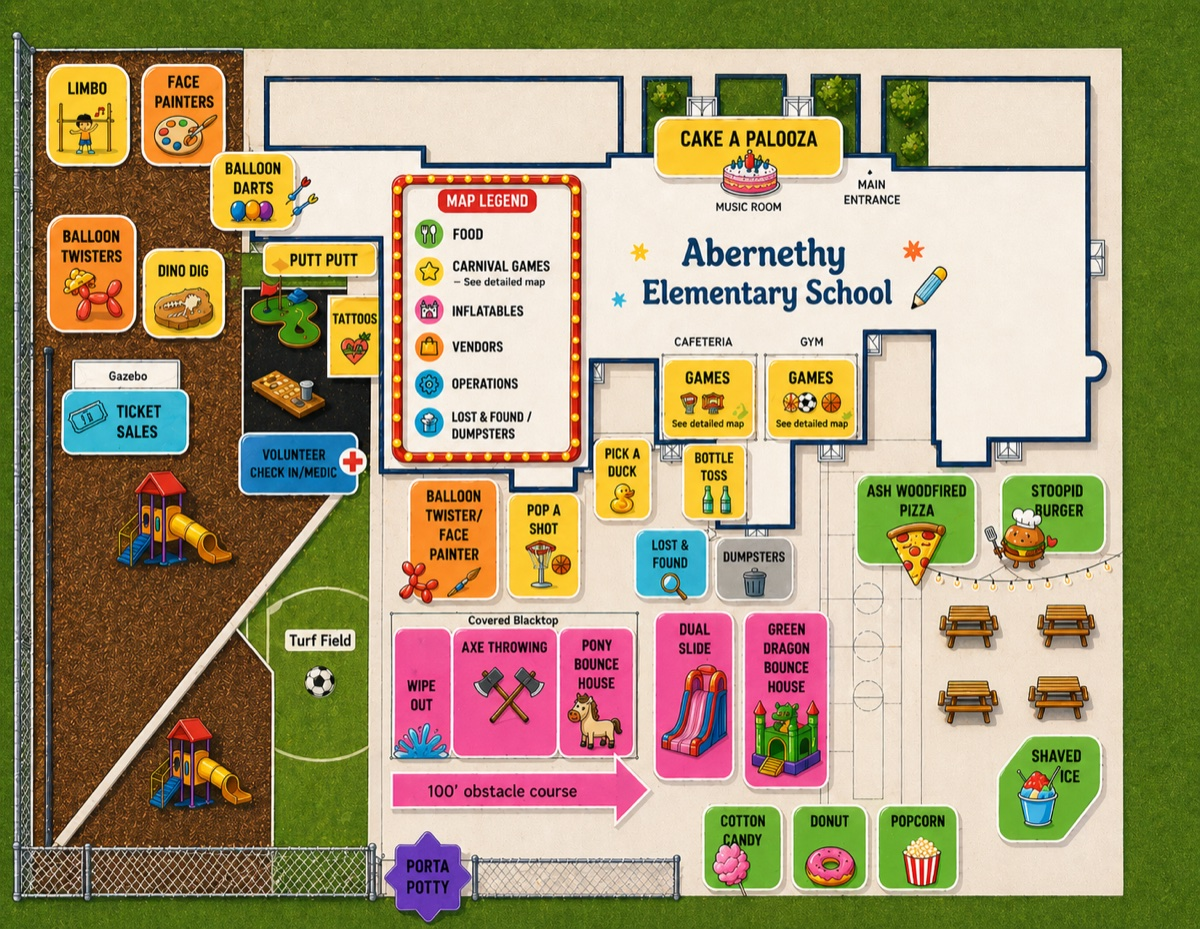
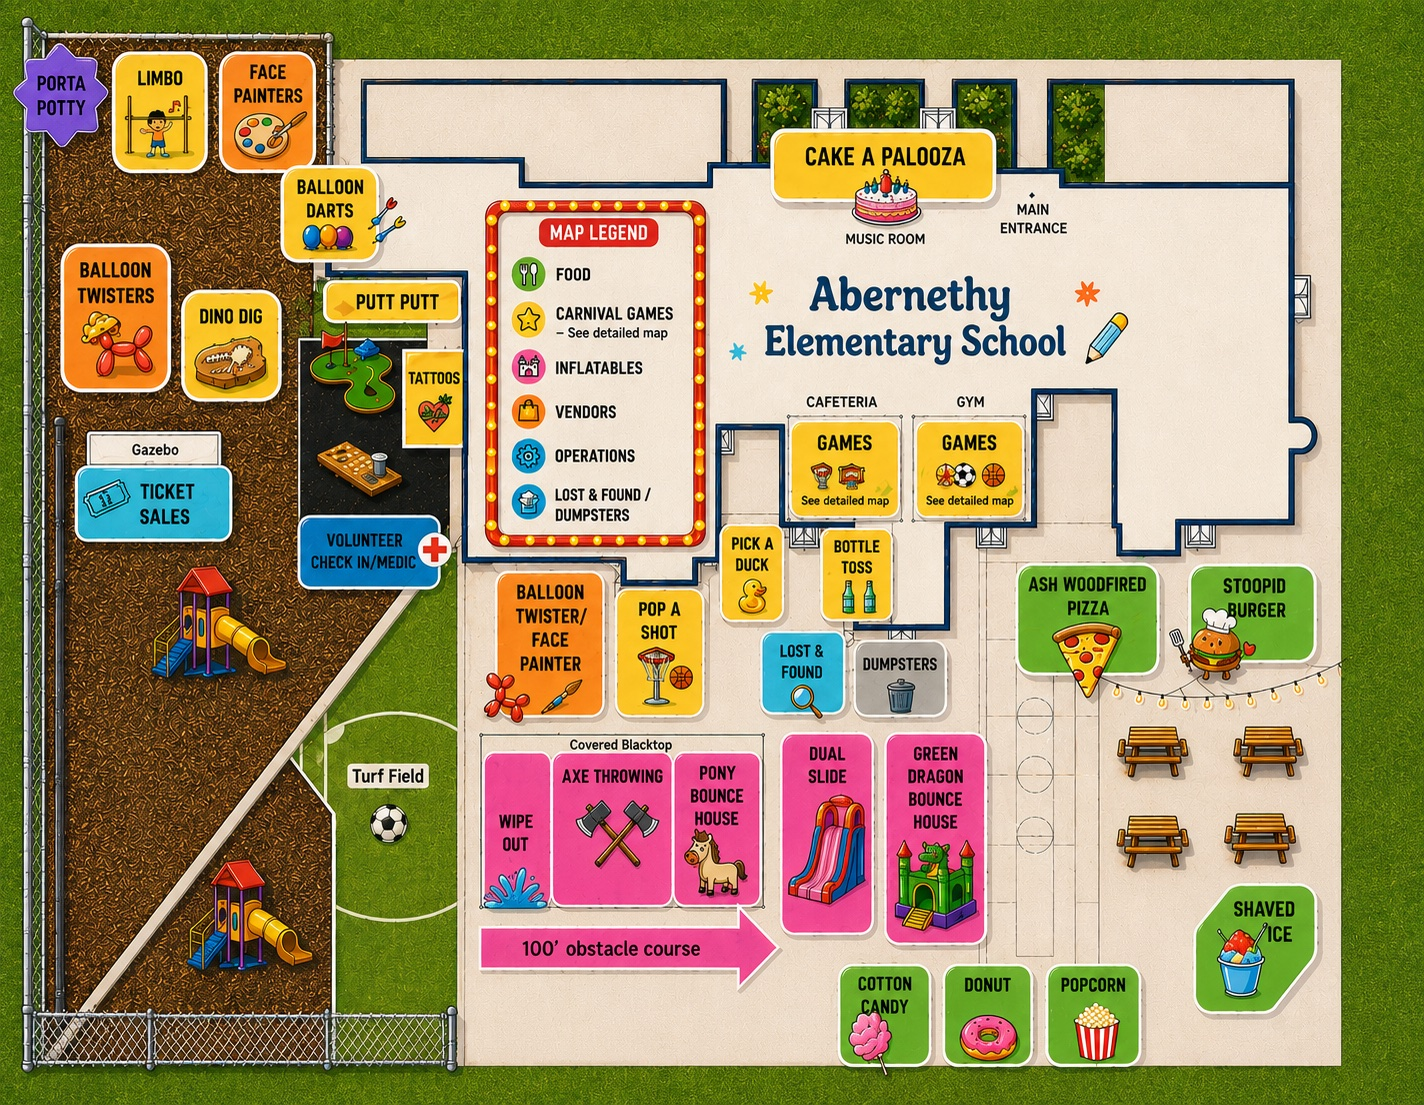
Add t-shirt sales section, swap in updated map (porta potty moved)
- Map: porta potty pin now at upper-left (matches the new on-site layout)
- New T-Shirts chapter linking to https://bashors.chipply.com/abernethycarnival/
- Add tshirt.jpg, inflatables-source/ backup folder, CLAUDE.md notes

diff --git a/index.html b/index.html
@@ -660,6 +660,35 @@
     .volunteer-copy a { color: var(--coral-deep); font-weight: 700; }
     .volunteer-cta { text-align: center; }
 
+    /* ---- T-Shirts ---- */
+    .tshirt-grid {
+      display: grid;
+      grid-template-columns: 1fr 1fr;
+      gap: 24px;
+      align-items: center;
+      background: var(--cream);
+      border-radius: 20px;
+      padding: 28px 30px;
+      box-shadow: 0 6px 0 rgba(29,58,95,0.08);
+      max-width: 860px;
+      margin: 0 auto;
+    }
+    .tshirt-image {
+      background: #fff;
+      border-radius: 14px;
+      padding: 12px;
+      border: 1px solid rgba(29,58,95,0.08);
+    }
+    .tshirt-image img {
+      width: 100%;
+      height: auto;
+      display: block;
+      border-radius: 8px;
+    }
+    .tshirt-copy p { margin-bottom: 10px; font-size: 1rem; }
+    .tshirt-copy p:last-of-type { margin-bottom: 16px; }
+    .tshirt-cta { text-align: left; }
+
     /* ---- Cake ---- */
     .cake-card {
       background: var(--coral);
@@ -781,6 +810,8 @@
       .map-wrap { padding: 10px; border-radius: 20px; }
       .price-grid { grid-template-columns: repeat(2, 1fr); }
       .volunteer-grid { grid-template-columns: 1fr; text-align: center; }
+      .tshirt-grid { grid-template-columns: 1fr; text-align: center; }
+      .tshirt-cta { text-align: center; }
       .activity-col { padding: 18px 20px; }
       .faq-wrap { padding: 4px 18px; }
     }
@@ -792,6 +823,7 @@
   <ul>
     <li><a href="#wristbands">Wristbands</a></li>
     <li><a href="#map">Map</a></li>
+    <li><a href="#tshirts">T-Shirts</a></li>
     <li><a href="#inflatables">Inflatables</a></li>
     <li><a href="#activities">Games</a></li>
     <li><a href="#food">Food</a></li>
@@ -936,6 +968,29 @@
     <div class="info-card soft">
       <div class="info-eyebrow">Financial assistance</div>
       <p>We want every child to enjoy Carnival regardless of ability to pay. Contact school counselor Jenny Morgan at <a href="mailto:jmorgan1@pps.net">jmorgan1@pps.net</a>.</p>
+    </div>
+  </div>
+</section>
+
+<!-- ================ T-SHIRTS ================ -->
+<section class="chapter" id="tshirts">
+  <div class="chapter-head">
+    <div class="chapter-eyebrow">show your school spirit</div>
+    <h2 class="chapter-title">Carnival T-Shirts</h2>
+    <div class="chapter-sub">Official Abernethy Elementary Carnival 2026 t-shirts. Wear it to the carnival, wear it all year.</div>
+  </div>
+
+  <div class="tshirt-grid">
+    <div class="tshirt-image">
+      <a href="https://bashors.chipply.com/abernethycarnival/" target="_blank" rel="noopener">
+        <img src="tshirt.jpg" alt="Yellow Abernethy Elementary School Carnival 2026 t-shirt with navy tree logo">
+      </a>
+    </div>
+    <div class="tshirt-copy">
+      <p>Available in multiple colors and sizes for kids and adults. Orders are placed online and shipped or delivered through Bashors.</p>
+      <div class="tshirt-cta">
+        <a class="btn btn-primary big" href="https://bashors.chipply.com/abernethycarnival/" target="_blank" rel="noopener">Order T-Shirts →</a>
+      </div>
     </div>
   </div>
 </section>

diff --git a/CLAUDE.md b/CLAUDE.md
@@ -1,0 +1,40 @@
+# Abernethy Carnival Website — LIVE SOURCE
+
+This directory IS the deployed source. Push to `main` → GitHub Pages auto-deploys.
+
+## Deployment
+- **Live URL**: https://carnival.supportabernethy.org
+- **GitHub repo**: Abernethy-PTA/abernethy-carnival (public)
+- **Hosting**: GitHub Pages, branch `main`, root `/`
+- **Deploy**: `git push origin main`
+
+## Design language (current site)
+- Modern editorial layout, "chapter" sections with eyebrow + title + subtitle
+- Fonts: Fraunces (headings/display), Nunito (body), Caveat (accents)
+- Palette: cream (#fdf4dd) → sky (#d8ecf3) gradient background, navy (#1d3a5f) ink, coral (#ec7d72), orange (#e89a3a), teal (#5b9a92)
+- Nav: sticky cream bar with backdrop blur
+- Map is `carnival-map.jpg` (illustrated overhead) with absolutely-positioned `.map-hot` clickable overlays linking to relevant sections
+- Buttons: `.btn .btn-primary` (navy), `.btn .btn-secondary` (cream/coral border), add `.big` for hero CTAs
+- Sections use shared `.chapter` wrapper with `.chapter-head` containing `.chapter-eyebrow`, `.chapter-title`, `.chapter-sub`
+
+## Sibling directory note
+- `/Users/astoertz/abernethy-carnival/` is a STALE working dir from the old vintage-poster design. Its `index.html` is NOT deployed.
+- That dir does still hold source assets (PNGs, generated maps, t-shirt photos). Compress new assets there, then copy compressed JPGs into this repo.
+
+## Content
+- Event: Friday May 15 2026, 5:30–8:30 PM
+- Location: Abernethy Elementary, 2421 SE Orange Ave, Portland, OR 97214
+- Wristbands: $25 advance / $30 at event / $10 pre-elementary / $5 donate-a-bracelet
+- Wristband purchase: Konstella (https://www.konstella.com/open/sales/69adb9845b1aa98cd7a03ade) or gazebo May 12–15
+- T-shirt sales: https://bashors.chipply.com/abernethycarnival/ (Bashors / Chipply)
+- Wristband includes: unlimited games + 1 cotton candy + 1 popcorn + 1 donut
+- Does NOT cover: food trucks, Fairy Sparkle hair
+- Financial assistance: Jenny Morgan, jmorgan1@pps.net
+- Volunteer signup: Konstella, questions → carnivalhelp@supportabernethy.org
+- Cake-a-Palooza: store-bought donations only (PPS allergen rules), drop in auditorium day-of, cake@supportabernethy.org
+- General questions: carnival@supportabernethy.org
+
+## Map editing notes
+- The map JPG is a flat illustration generated externally (ChatGPT/Gemini). Cannot be edited in code.
+- The porta potty has NO clickable hotspot — it's purely decorative on the map.
+- To swap the map: replace `carnival-map.jpg` only. No HTML changes needed unless hotspot positions move (none of the hotspot targets coincide with porta potty).
